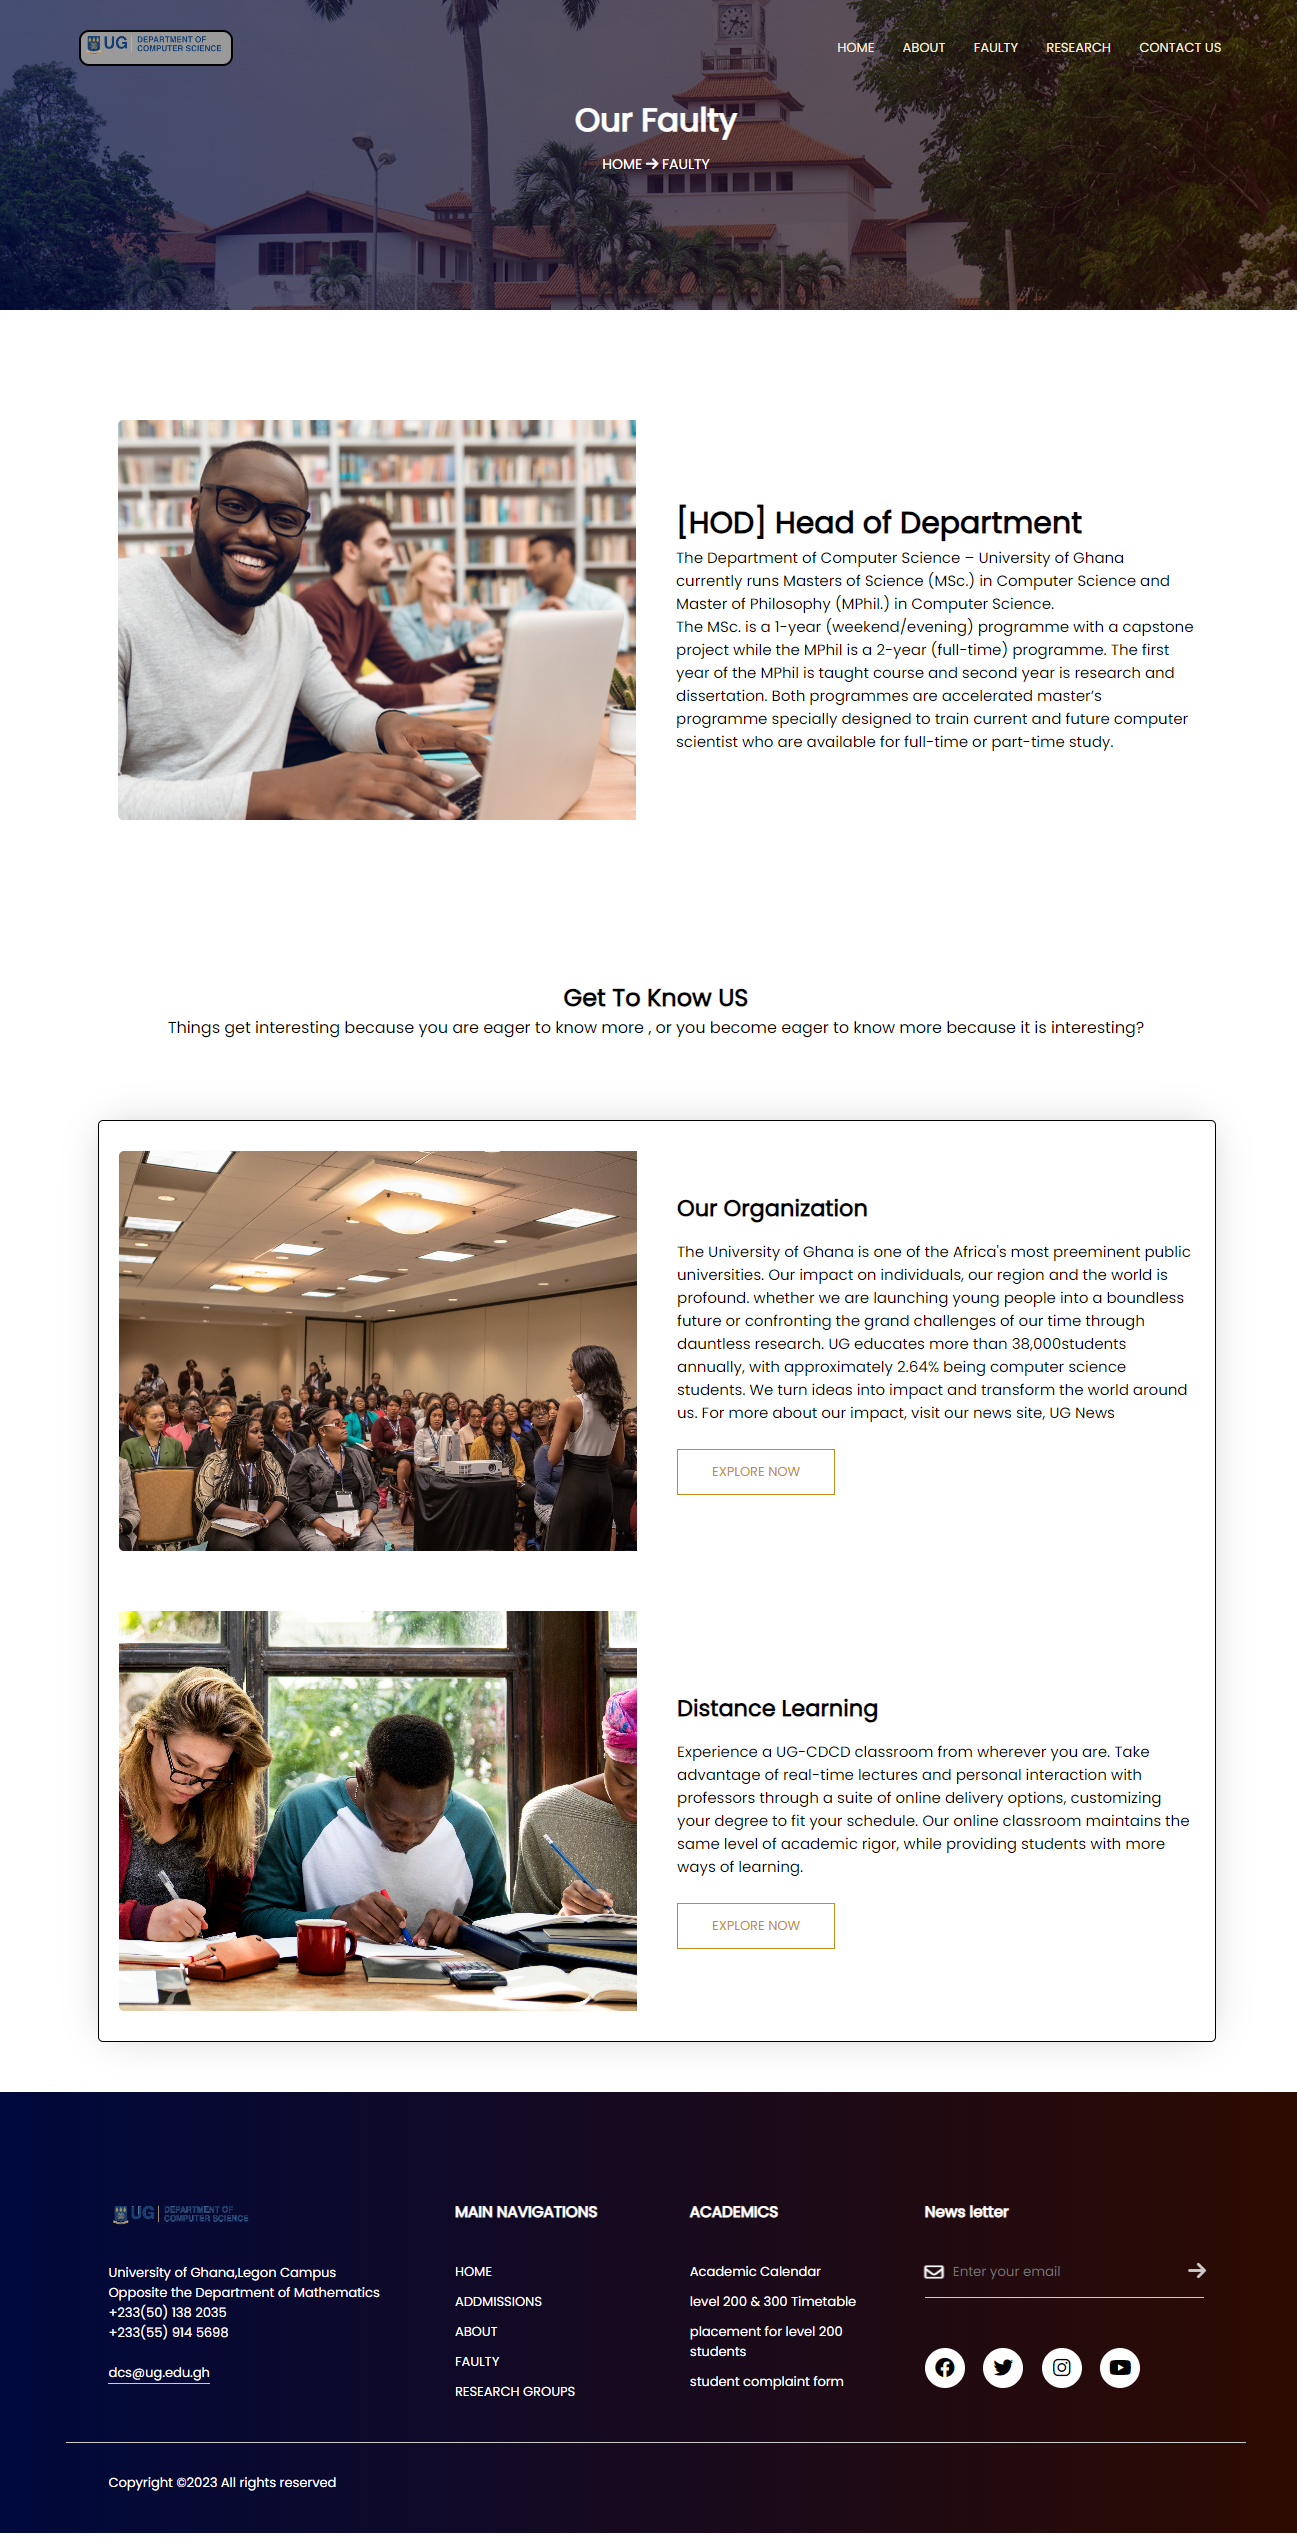
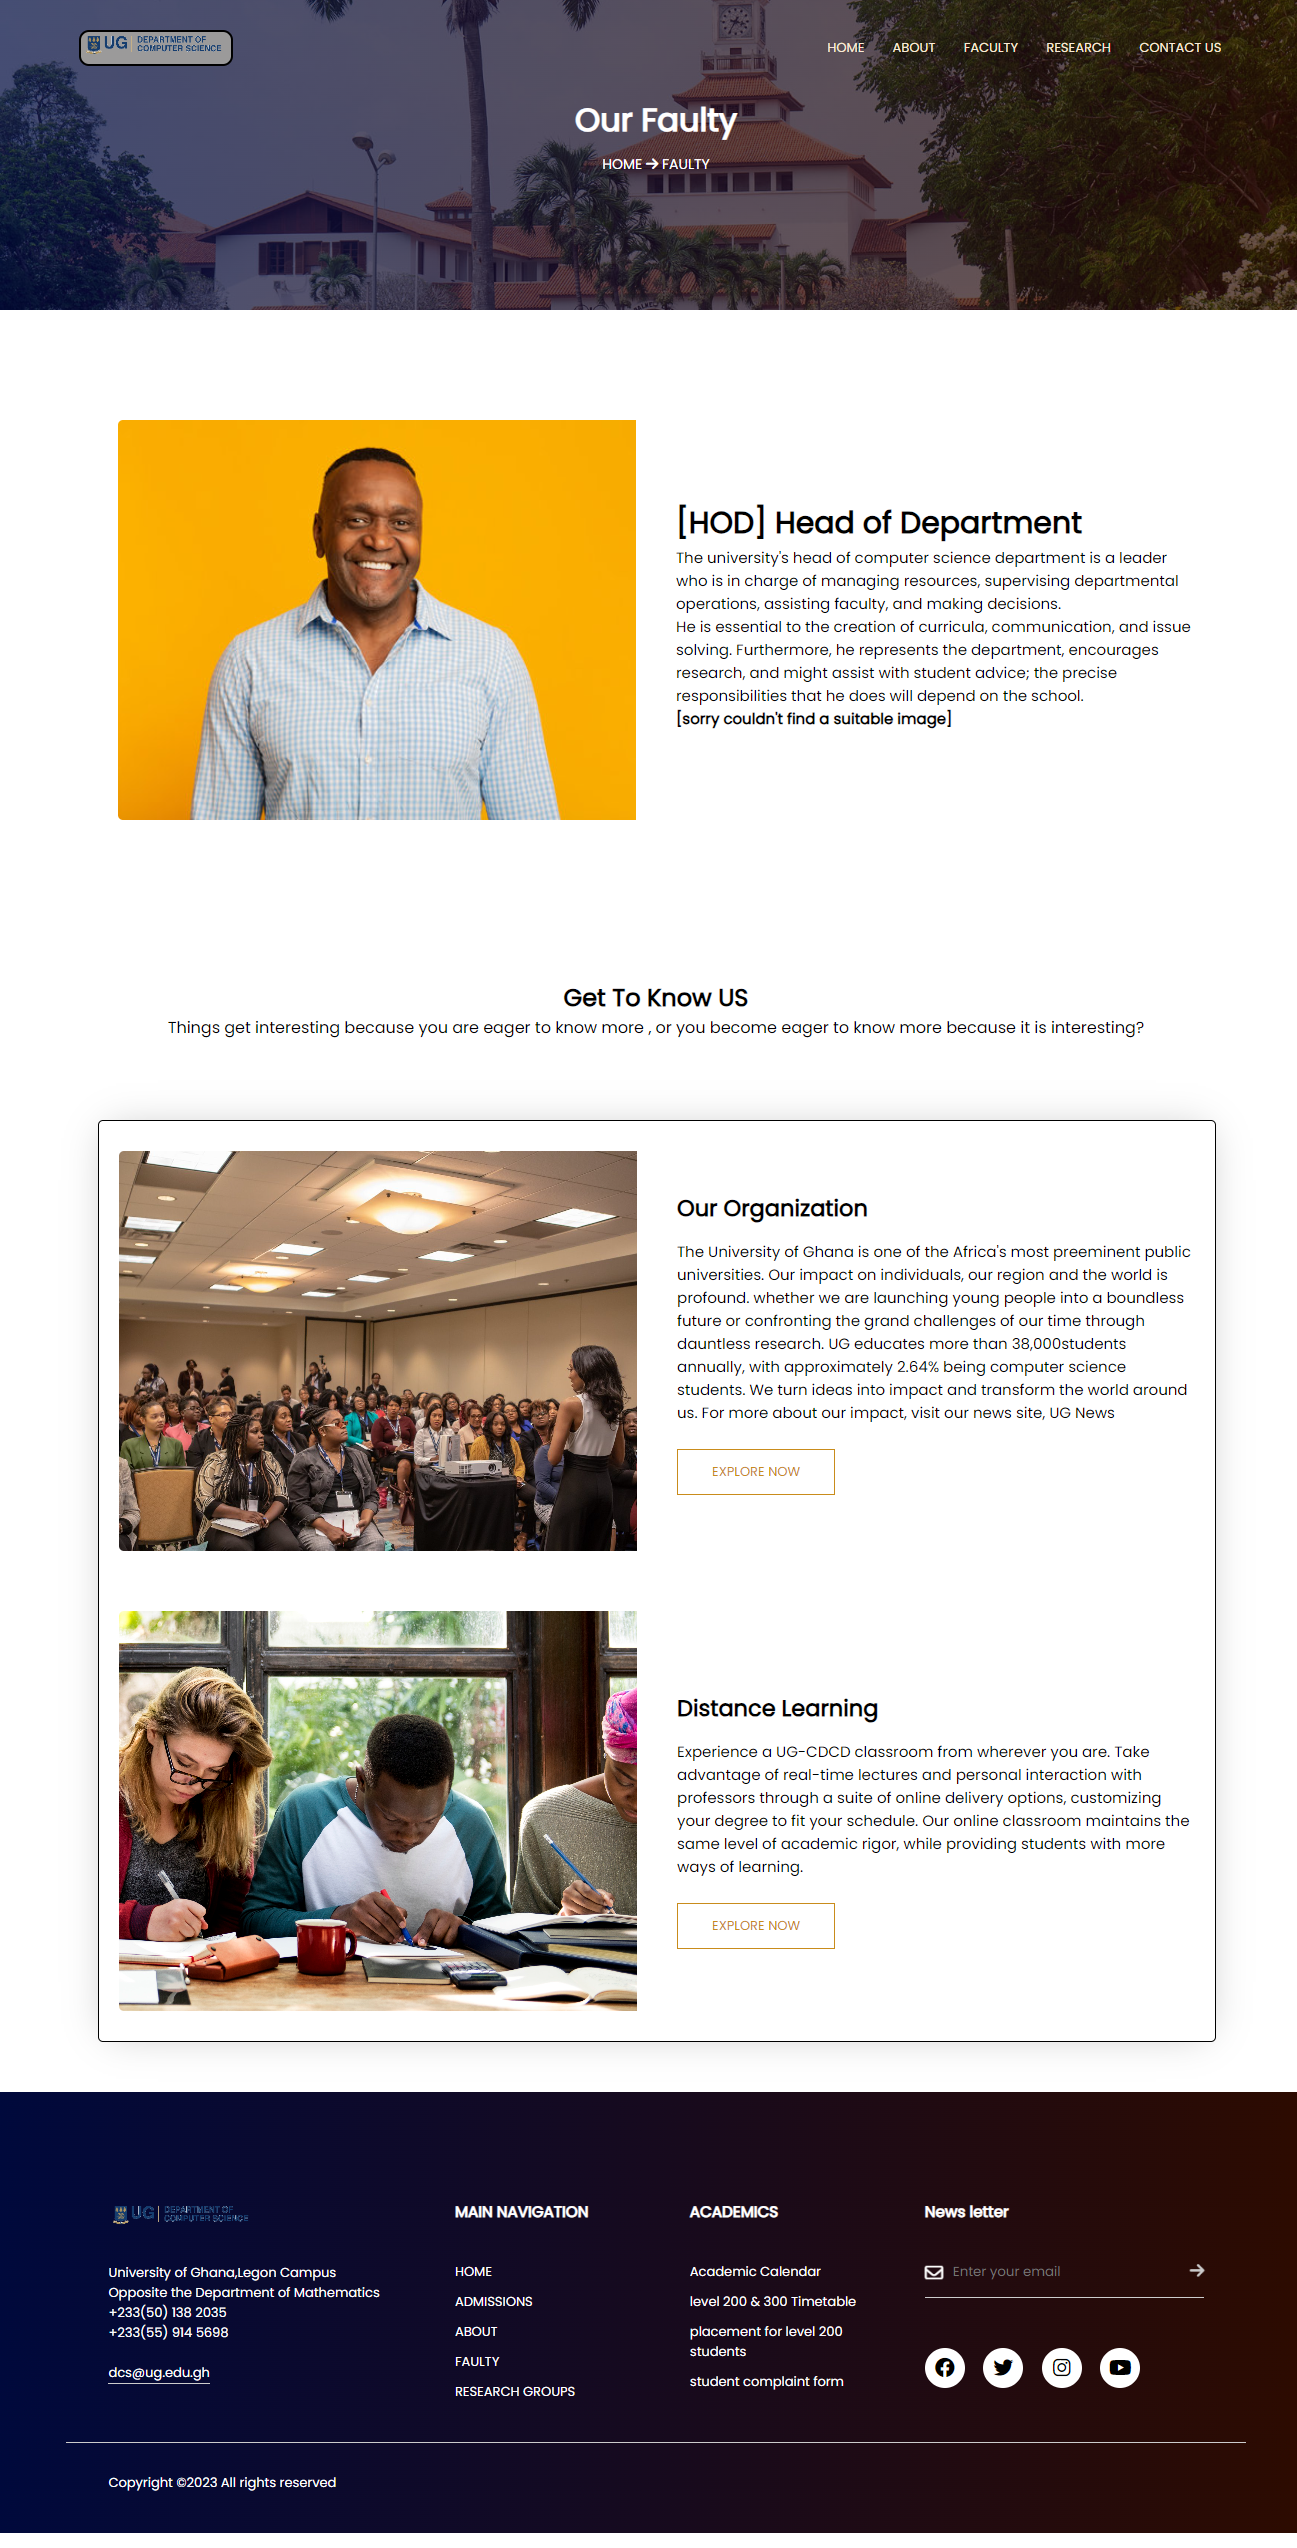
maded changes to faulty image

Changed region(s): [[0.0925, 0.155, 0.4934, 0.3411], [0.5243, 0.217, 0.9252, 0.31], [0.3701, 0.8991, 0.4009, 0.9301]]

diff --git a/faculty.html b/faculty.html
@@ -64,16 +64,17 @@
     <div class="about-us">
       <div class="row">
         <div class="about-col">
-          <img src="https://www.vaughn.edu/wp-content/uploads/2021/12/Study-Tips_1200x630.jpg" alt="about image" class="about-img">
+          <img src="https://t3.ftcdn.net/jpg/03/25/35/78/360_F_325357827_UdKaQQnQJtOAbvn3sS8obdU5hSoQKbDe.jpg" alt="head of department" class="about-img">
         </div>
         <div class="about-col">
           <h1 class="about-header">[HOD] Head of Department</h1>
           <p class="">
-            The Department of Computer Science – University of Ghana currently runs Masters of Science (MSc.) in Computer Science and Master of Philosophy (MPhil.) in Computer Science.
+            The university's head of computer science department is a leader who is in charge of managing resources, supervising departmental operations, assisting faculty, and making decisions. 
           </p>
           <p>
-            The MSc. is a 1-year (weekend/evening) programme with a capstone project while the MPhil is a 2-year (full-time) programme. The first year of the MPhil is taught course and second year is research and dissertation. Both programmes are accelerated master’s programme specially designed to train current and future computer scientist who are available for full-time or part-time study.
+             He is essential to the creation of curricula, communication, and issue solving. Furthermore, he represents the department, encourages research, and might assist with student advice; the precise responsibilities that he does will depend on the school.
           </p>
+          <p style="font-weight: bold;">[sorry couldn't find a suitable image]</p>
           
         </div>
       </div>

diff --git a/myscript.js b/myscript.js
@@ -1,4 +1,5 @@
-// javascript to joogle navbar
+// javascript to toggle navbar
+
 
 var navs = document.getElementById("navs");
 function showMenu(){
@@ -8,11 +9,19 @@ function hideMenu(){
   navs.style.right = "-200px";
 }
 
-function showCourses(){
-  var list = documnet.getElementByClassName("hideCourses");
-  if (list.style.display == "none"){
-    list.style.display == "block";
-  }else{
-    list.style.display == "none";
-  }
-}
+// function showCourses(){
+//   var list = documnet.getElementByClassName("hideCourses");
+//   if (list.style.display == "none"){
+//     list.style.display == "block";
+//   }else{
+//     list.style.display == "none";
+//   }
+// }
+window.onscroll = function() {scrollFunction()};
+// function scrollFunction() {
+//   if (document.body.scrollTop > 20 || document.documentElement.scrollTop > 20) {
+//     document.getElementById("navbar").style.top = "0";
+//   } else {
+//     document.getElementById("navbar").style.top = "-50px";
+//   }
+// }

diff --git a/styles.css b/styles.css
@@ -22,7 +22,7 @@
     position: relative ;
   
   }
-  
+
   .navbar{
     display: flex;
     padding: 2% 6%;
